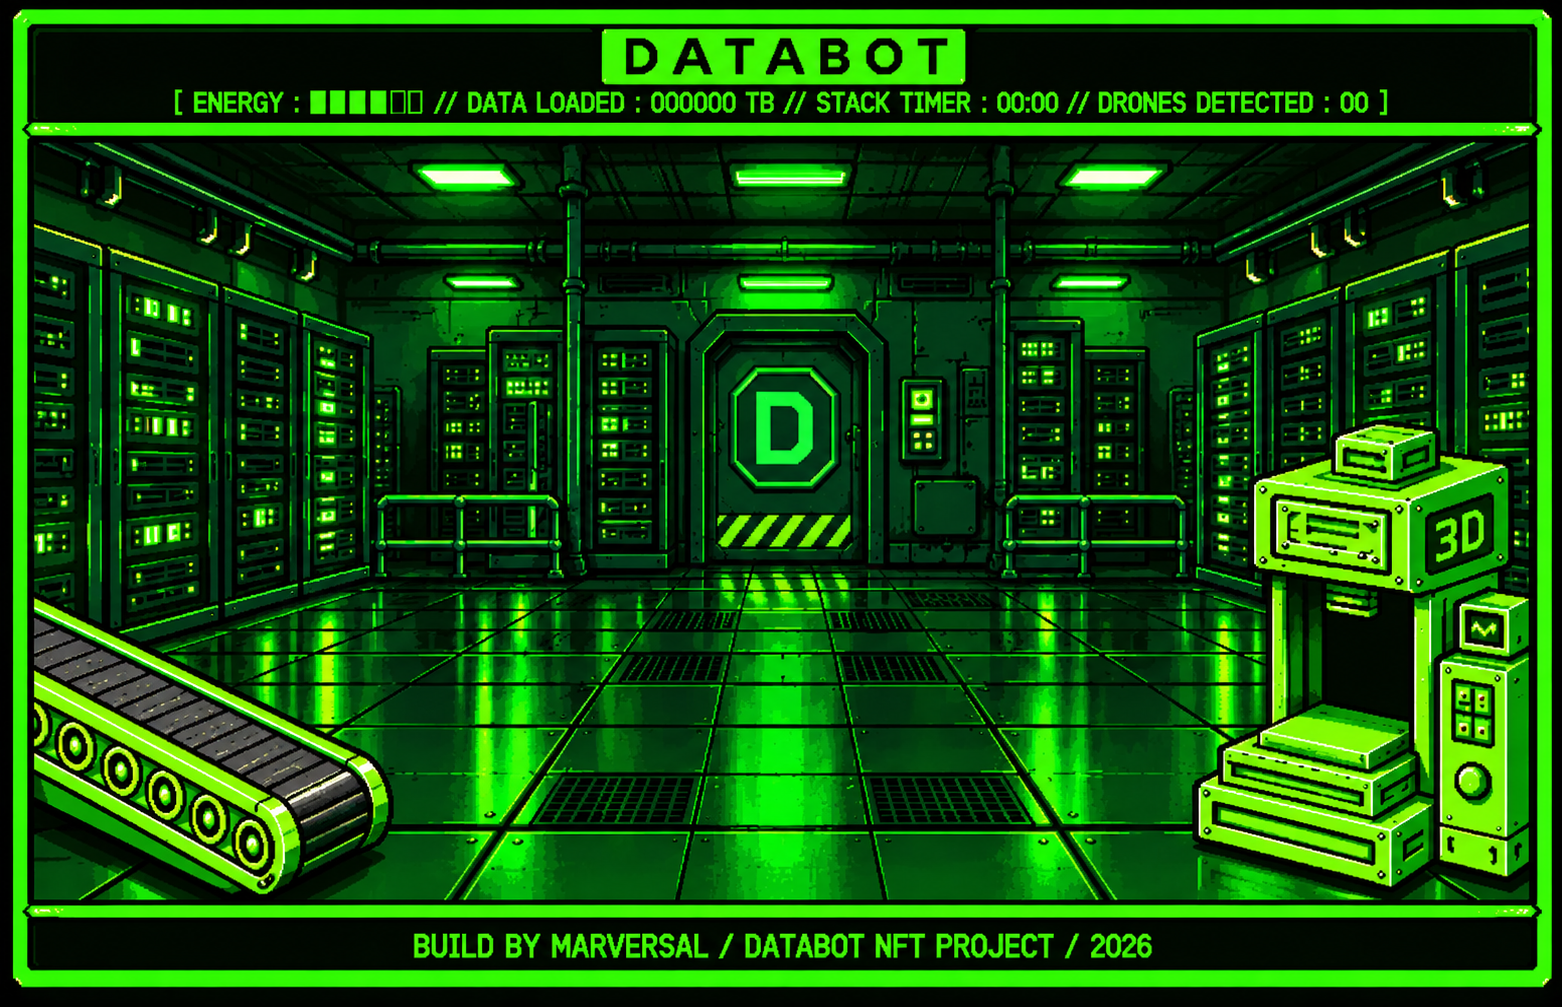
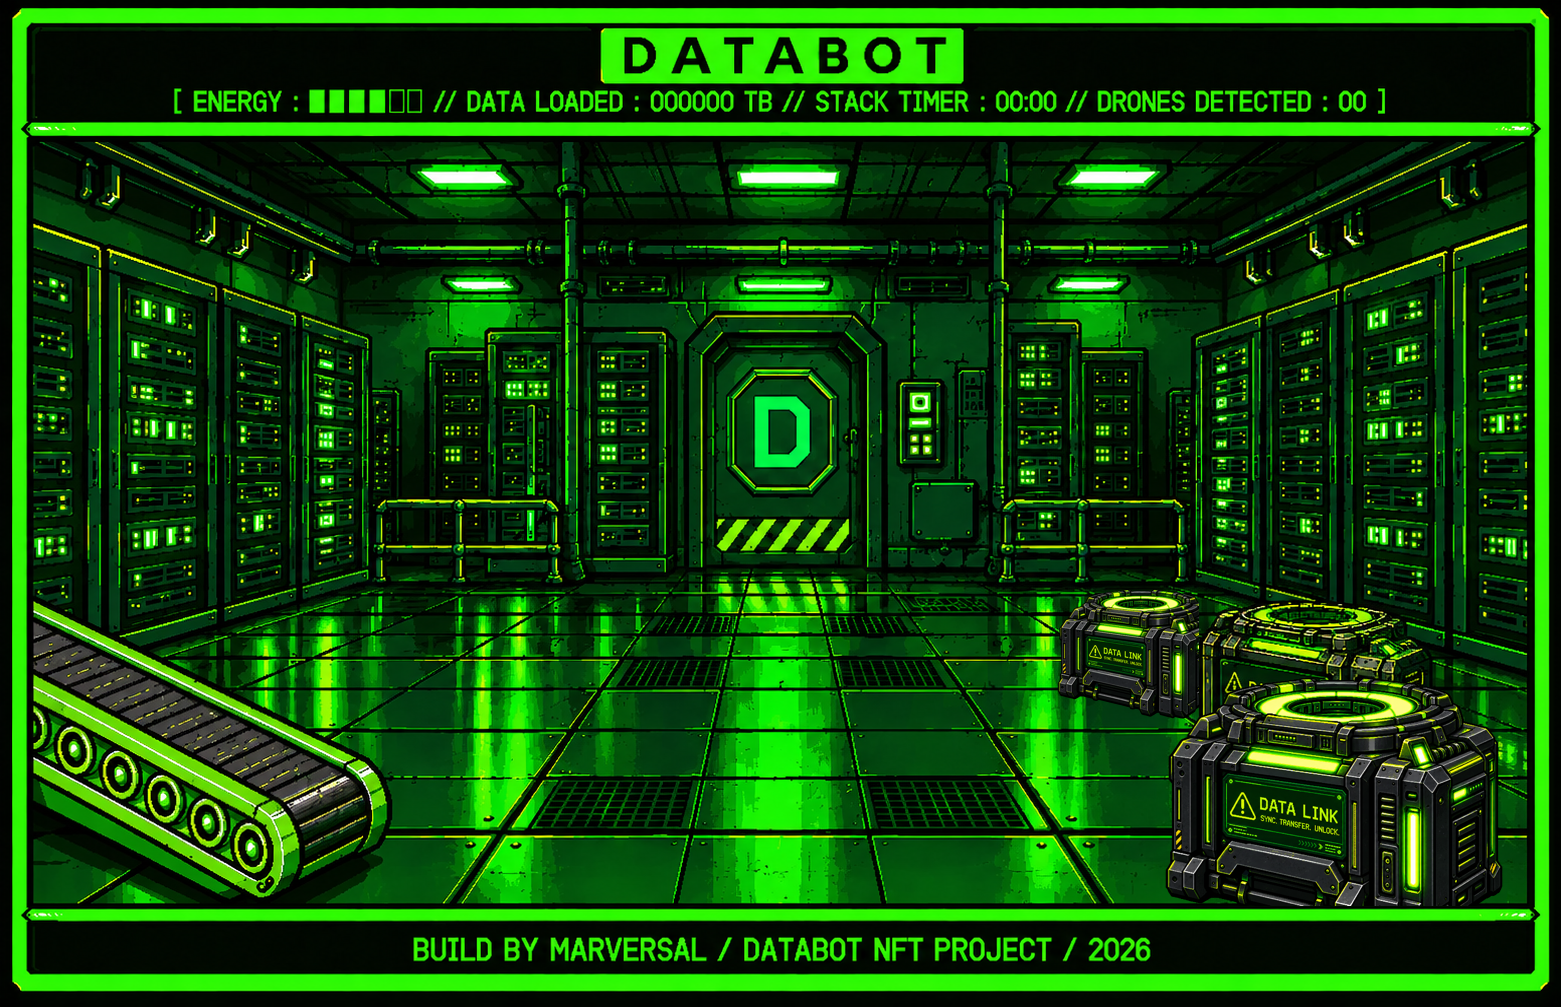
Add files via upload

diff --git a/src/render.js b/src/render.js
@@ -4,7 +4,8 @@ import { D } from './drone.js';
 import { drawText, textWidth, loadFont } from './font.js';
 import { COL, drawHeader, drawPrompt } from './hud.js';
 
-const NAMES = ['databot_run_L', 'databot_run_R', 'databot_carry_L', 'databot_carry_R', 'databot_jump_L', 'databot_jump_R',
+const POSES = ['launch', 'air', 'reach', 'lift'];
+const NAMES = ['databot_run_L', 'databot_run_R', 'databot_carry_L', 'databot_carry_R', ...POSES.flatMap(p => ['databot_' + p + '_L', 'databot_' + p + '_R']),
   'dog_run1', 'dog_run2', 'dog_run3', 'dog_run4', 'drone_fly1', 'drone_fly2', 'drone_shoot', 'drone_tilt', 'cube'];
 export const img = {}; const bgs = {};
 export function loadAssets() {
@@ -12,7 +13,9 @@ export function loadAssets() {
   return Promise.all([loadFont(), ...NAMES.map(n => load('assets/sprites/' + n + '.png').then(i => { img[n] = i; })),
     load('assets/bg/layout.png').then(i => { bgs.layout = i; }), load('assets/bg/splash.png').then(i => { bgs.splash = i; })]);
 }
-export const SIZE = { databotH: 190, dogH: 76, droneW: 150, cubeBelt: 46 };
+export const SIZE = { databotK: 0.378, poseK: 0.33, dogH: 76, droneW: 150, cubeBelt: 46 };
+const databotH = (name) => img[name].height * (/_(launch|air|reach|lift)_/.test(name) ? SIZE.poseK : SIZE.databotK);
+const PLAYER_H = 190;
 
 const tintCv = document.createElement('canvas'), tintCtx = tintCv.getContext('2d');
 // Draws a sprite scaled to a target height (or width), anchored bottom-centre (default) or centre.
@@ -93,7 +96,7 @@ function drawSheet(ctx) {
   const tw = textWidth('DATABOT SPRITE SHEET', 4) + 28; ctx.fillStyle = COL.g; ctx.fillRect(512 - tw / 2, 100, tw, 36);
   drawText(ctx, 'DATABOT SPRITE SHEET', 512, 108, 4, '#000', { align: 'center' });
   const rows = [
-    [['databot_run_L', 'RUN LEFT'], ['databot_carry_L', 'CARRY LEFT'], ['databot_jump_L', 'JUMP LEFT'], ['databot_run_R', 'RUN RIGHT'], ['databot_carry_R', 'CARRY RIGHT'], ['databot_jump_R', 'JUMP RIGHT']],
+    [['databot_run_L', 'RUN'], ['databot_carry_L', 'CARRY'], ['databot_launch_L', 'JUMP LAUNCH'], ['databot_air_R', 'AIRBORNE'], ['databot_reach_L', 'GRAB REACH'], ['databot_lift_L', 'GRAB LIFT']],
     [['drone_fly1', 'DRONE FLY'], ['drone_shoot', 'LASER SHOOT'], ['drone_tilt', 'LASER TILT'], ['dog_run1', 'K9 RUN 1'], ['dog_run3', 'K9 RUN 3'], ['cube', 'DATA CUBE']]];
   rows.forEach((row, r) => row.forEach(([n, label], i) => {
     const cx = 100 + i * 165, top = 148 + r * 215;
@@ -122,15 +125,17 @@ export function draw(ctx, w, t) {
   if (w.terminal.glow > 0) { const k = w.terminal.glow / 0.6; glow(ctx, cx, cy, 80, `rgba(200,255,0,${0.55 * k})`); spr(ctx, 'cube', cx, cy, { w: T.cubeWidth, anchor: 'center', alpha: Math.min(1, k * 1.6) }); }
   w.terminal.flying.forEach(f => { const q = w.terminal.flyPos(f); spr(ctx, 'cube', q.x, q.y, { w: T.cubeWidth * (0.6 + 0.4 * f.t), anchor: 'center' }); });
   if (w.state.playing && w.inTerminalZone() && Math.floor(t * 3) % 2) {
-    ctx.fillStyle = COL.hi; ctx.beginPath(); ctx.moveTo(cx - 12, 395); ctx.lineTo(cx + 12, 395); ctx.lineTo(cx, 413); ctx.fill();
+    ctx.fillStyle = COL.hi; ctx.beginPath(); ctx.moveTo(cx - 12, 366); ctx.lineTo(cx + 12, 366); ctx.lineTo(cx, 384); ctx.fill();
   }
   w.dogs.forEach(d => { shadow(ctx, d.x, 90); spr(ctx, d.sprite(), d.x, d.y, { h: SIZE.dogH, flip: d.dir > 0 }); });
   shadow(ctx, p.x, 80 - Math.min(30, (CFG.FLOOR - p.y) / 5));
   const blink = p.invT > 0 && !p.stunned && Math.floor(t * 14) % 2;
   if (!blink) {
     const tint = p.hitFlash > 0 ? '#ffffff' : (p.stunned && Math.floor(t * 10) % 2 ? 'rgba(255,42,74,0.45)' : null);
-    spr(ctx, p.sprite(), p.x + (p.stunned ? Math.sin(t * 70) * 3 : 0), p.y - p.bob(), { h: SIZE.databotH, tint, rot: p.onGround && Math.abs(p.vx) > 30 ? Math.sin(p.anim * 11) * 0.03 : 0 });
+    const sn = p.sprite();
+    spr(ctx, sn, p.x + (p.stunned ? Math.sin(t * 70) * 3 : 0), p.y - p.bob(), { h: databotH(sn), tint, rot: p.onGround && Math.abs(p.vx) > 30 ? Math.sin(p.anim * 11) * 0.03 : 0 });
   }
+  if (p.lifting && !blink) spr(ctx, 'cube', p.x + p.facing * 62, p.y - 150 - Math.sin(Math.min(1, (p.act.t - 0.16) / 0.26) * Math.PI) * 6, { w: 40, anchor: 'center' });
   w.drones.forEach(d => {
     drawLaser(ctx, d, t); shadow(ctx, d.x, 50);
     spr(ctx, droneSprite(d, t), d.x, d.y, { w: SIZE.droneW, flip: d.facing > 0, anchor: 'center', rot: d.state === D.TARGET || d.state === D.CHARGE ? 0.04 * d.facing : 0 });
@@ -138,9 +143,9 @@ export function draw(ctx, w, t) {
   });
   w.fx.parts.forEach(q => { ctx.globalAlpha = Math.max(0, q.life / q.max); ctx.fillStyle = q.color; ctx.fillRect(q.x - 2, q.y - 2, 4, 4); }); ctx.globalAlpha = 1;
   if (w.state.playing) {
-    if (p.stunned) drawText(ctx, 'STUNNED', p.x, p.y - SIZE.databotH - 26, 3, COL.red, { align: 'center', shadow: '#000' });
-    else if (w.inTerminalZone()) drawPrompt(ctx, '[E] LOAD BELT', p.x, p.y - SIZE.databotH - 14, t);
-    else if (grab) drawPrompt(ctx, '[E] GRAB CUBE', p.x, p.y - SIZE.databotH - 14, t);
+    if (p.stunned) drawText(ctx, 'STUNNED', p.x, p.y - PLAYER_H - 26, 3, COL.red, { align: 'center', shadow: '#000' });
+    else if (w.inTerminalZone()) drawPrompt(ctx, '[E] LOAD BELT', p.x, p.y - PLAYER_H - 14, t);
+    else if (grab) drawPrompt(ctx, '[E] GRAB CUBE', p.x, p.y - PLAYER_H - 14, t);
   }
   w.fx.pops.forEach(q => drawText(ctx, q.text, q.x, q.y, 2, q.color, { align: 'center', shadow: '#000' }));
   drawHeader(ctx, w, t);

diff --git a/src/game.js b/src/game.js
@@ -12,7 +12,7 @@ import { FX } from './fx.js';
 export class World {
   constructor() {
     this.state = new StateManager(); this.player = new Player(); this.conveyor = new Conveyor(); this.terminal = new Terminal();
-    this.fx = new FX(); this.drones = []; this.dogs = []; this.notice = null; this.gameOverReason = ''; this.clock = 0; this.inP2 = false;
+    this.fx = new FX(); this.drones = []; this.dogs = []; this.notice = null; this.gameOverReason = ''; this.clock = 0; this.inP2 = false; this.idleT = 0;
     this.stats = { data: 0, cubes: 0 }; this.loadLeft = CFG.loadTime; this.surviveLeft = CFG.surviveTime;
     this.state.on((next, prev) => this.onState(next, prev));
   }
@@ -51,20 +51,26 @@ export class World {
   interact() {
     const p = this.player;
     if (this.inTerminalZone()) {
-      p.carrying--; this.terminal.deliver(p.x + p.facing * 20, p.y - 70); this.sfx('deliver');
+      p.carrying--; p.startAction('load'); this.terminal.deliver(p.x + p.facing * 20, p.y - 70); this.sfx('deliver');
       this.fx.burst(p.x, p.y - 70, '#c8ff00', 6, 100); return;
     }
     const c = this.nearGrab();
-    if (c && this.conveyor.take(c)) { p.carrying++; this.sfx('pickup'); const q = this.conveyor.pos(c.t); this.fx.burst(q.x, q.y - 20, '#39ff14', 8, 120); }
+    if (c && this.conveyor.take(c)) { p.carrying++; p.startAction('pickup'); this.sfx('pickup'); const q = this.conveyor.pos(c.t); this.fx.burst(q.x, q.y - 20, '#39ff14', 8, 120); }
+  }
+  returnToStart() {
+    this.resetSession(); Input.clear(); this.sheet = false;
+    this.state.go(S.START); this.idleT = 0;
   }
   update(dt) {
-    this.clock += dt; this.state.tick(dt); this.fx.update(dt);
+    this.clock += dt;
+    if (Input.activity() || Input.anyHeld()) this.idleT = 0; else this.idleT += dt;
+    if (this.idleT >= CFG.idleTimeout && !this.state.is(S.START, S.INITIALIZING)) { this.returnToStart(); return; } this.state.tick(dt); this.fx.update(dt);
     if (this.notice && (this.notice.life -= dt) <= 0) this.notice = null;
     if (Input.hit('mute')) Audio8.toggleMute();
     if (Input.hit('volup')) Audio8.setVolume(Audio8.volume + 0.1);
     if (Input.hit('voldown')) Audio8.setVolume(Audio8.volume - 0.1);
     const st = this.state;
-    if (st.is(S.START)) { if (Input.hit('confirm') || Input.hit('jump')) this.begin(); return; }
+    if (st.is(S.START)) { if (Input.activity()) this.begin(); return; }
     if (st.is(S.GAMEOVER)) { if (Input.hit('confirm')) this.begin(); this.player.update(dt, this); return; }
     if (st.is(S.TRANSITION)) {
       this.player.update(dt, this); this.terminal.update(dt, this);

diff --git a/src/player.js b/src/player.js
@@ -4,7 +4,7 @@ export class Player {
   constructor() { this.reset(); }
   reset() {
     Object.assign(this, { x: 560, y: CFG.FLOOR, vx: 0, vy: 0, facing: 1, onGround: true, carrying: 0, energy: CFG.energy,
-      stunT: 0, invT: 0, landT: 0, anim: 0, jumpBuf: 0, stepT: 0, hitFlash: 0 });
+      stunT: 0, invT: 0, landT: 0, airT: 0, act: null, anim: 0, jumpBuf: 0, stepT: 0, hitFlash: 0 });
   }
   get stunned() { return this.stunT > 0; }
   update(dt, w) {
@@ -27,6 +27,7 @@ export class Player {
     }
     this.x = Math.max(P.minX, Math.min(P.maxX, this.x + this.vx * dt));
     if (this.onGround && Math.abs(this.vx) > 120) { this.stepT -= dt; if (this.stepT <= 0) { this.stepT = 0.26; w.sfx('step'); } }
+    this.airT = this.onGround ? 0 : this.airT + dt; if (this.act && (this.act.t += dt) > this.act.dur) this.act = null;
     this.landT = Math.max(0, this.landT - dt); this.stunT = Math.max(0, this.stunT - dt);
     this.invT = Math.max(0, this.invT - dt); this.hitFlash = Math.max(0, this.hitFlash - dt);
     this.anim += dt * (Math.abs(this.vx) > P.maxSpeed * P.runThreshold ? 1.6 : 1);
@@ -41,9 +42,16 @@ export class Player {
     if (this.energy <= 0) w.gameOver('SYSTEM FAILURE - ENERGY DEPLETED');
     return true;
   }
+  startAction(type) { this.act = { type, t: 0, dur: type === 'pickup' ? 0.42 : 0.32 }; }
+  get lifting() { return this.act && this.act.type === 'pickup' && this.act.t >= 0.16; }
   sprite() {
     const side = this.facing < 0 ? 'L' : 'R';
-    if (this.stunned || !this.onGround) return (this.carrying > 0 && !this.stunned ? 'databot_carry_' : 'databot_jump_') + side;
+    if (this.stunned) return 'databot_air_' + side;
+    if (this.act && this.onGround) {
+      if (this.act.type === 'pickup') return 'databot_' + (this.act.t < 0.16 ? 'reach_' : 'lift_') + side;
+      return 'databot_reach_' + side;
+    }
+    if (!this.onGround) return this.carrying > 0 ? 'databot_carry_' + side : 'databot_' + (this.airT < 0.14 && this.vy < 0 ? 'launch_' : 'air_') + side;
     return (this.carrying > 0 ? 'databot_carry_' : 'databot_run_') + side;
   }
   bob() { return this.onGround && Math.abs(this.vx) > 30 ? Math.abs(Math.sin(this.anim * 11)) * 6 : 0; }

diff --git a/src/debug.js b/src/debug.js
@@ -16,6 +16,9 @@ export function installDebug(world, ctl) {
       if (name === 'start') { if (!w.state.is(S.START)) { w.gameOver('x'); w.state.go(S.START); } return; }
       if (name === 'load') { w.stats = { data: 256, cubes: 4 }; w.loadLeft = 42; w.player.x = 330; w.player.carrying = 0; w.conveyor.cubes = [0.99, 0.82, 0.55, 0.3, 0.08].map((t, i) => ({ id: 90 + i, t, state: 'belt' })); w.notice = null; }
       if (name === 'carry') { w.stats = { data: 256, cubes: 4 }; w.loadLeft = 38; w.player.x = 770; w.player.carrying = 1; w.player.facing = 1; w.conveyor.cubes = [0.7, 0.4, 0.15].map((t, i) => ({ id: 80 + i, t, state: 'belt' })); w.notice = null; }
+      if (name === 'grab') { w.stats = { data: 192, cubes: 3 }; w.loadLeft = 45; w.player.x = 300; w.player.facing = 1; w.player.carrying = 1; w.player.startAction('pickup'); w.player.act.t = 0.3; w.conveyor.cubes = [0.9, 0.6, 0.3].map((t, i) => ({ id: 50 + i, t, state: 'belt' })); w.notice = null; }
+      if (name === 'reach') { w.stats = { data: 192, cubes: 3 }; w.loadLeft = 45; w.player.x = 300; w.player.facing = 1; w.player.carrying = 0; w.player.startAction('pickup'); w.player.act.t = 0.05; w.conveyor.cubes = [0.99, 0.7, 0.4].map((t, i) => ({ id: 40 + i, t, state: 'belt' })); w.notice = null; }
+      if (name === 'jump') { w.stats = { data: 192, cubes: 3 }; w.loadLeft = 44; w.player.x = 520; w.player.facing = 1; w.player.carrying = 0; w.player.onGround = false; w.player.y = CFG.FLOOR - 70; w.player.vy = -200; w.player.airT = 0.4; w.conveyor.cubes = [0.8, 0.5, 0.2].map((t, i) => ({ id: 30 + i, t, state: 'belt' })); w.notice = null; }
       if (name === 'deliver') { w.stats = { data: 320, cubes: 5 }; w.loadLeft = 35; w.player.x = 800; w.player.carrying = 0; w.terminal.glow = 0.5; w.terminal.processT = 0.5; w.conveyor.cubes = [0.6, 0.3].map((t, i) => ({ id: 70 + i, t, state: 'belt' })); }
       if (name === 'detect' || name === 'laser' || name === 'stun' || name === 'over') {
         w.stats = { data: 576, cubes: 9 }; w.loadLeft = 0; goPhase(S.PHASE2); w.inP2 = true; w.surviveLeft = 44; w.player.energy = 4; w.conveyor.cubes = [0.5, 0.2].map((t, i) => ({ id: 60 + i, t, state: 'belt' }));

diff --git a/src/input.js b/src/input.js
@@ -1,18 +1,22 @@
-const down = new Set(), pressed = new Set();
+const down = new Set(), pressed = new Set(), anyDown = new Set(); let activity = false;
 const MAP = { arrowleft: 'left', a: 'left', arrowright: 'right', d: 'right', arrowup: 'jump', ' ': 'jump', w: 'jump', e: 'grab', enter: 'confirm', r: 'confirm', m: 'mute', '+': 'volup', '=': 'volup', '-': 'voldown', _: 'voldown' };
 let bound = false;
 const onDown = (ev) => {
+  activity = true; anyDown.add(ev.key);
   const a = MAP[ev.key.toLowerCase()]; if (!a) return;
   if (ev.key.startsWith('Arrow') || ev.key === ' ') ev.preventDefault();
   if (!down.has(a)) pressed.add(a);
   down.add(a);
 };
-const onUp = (ev) => { const a = MAP[ev.key.toLowerCase()]; if (a) down.delete(a); };
+const onUp = (ev) => { activity = true; anyDown.delete(ev.key); const a = MAP[ev.key.toLowerCase()]; if (a) down.delete(a); };
 export const Input = {
-  bind() { if (bound) return; bound = true; addEventListener('keydown', onDown); addEventListener('keyup', onUp); addEventListener('blur', () => down.clear()); },
+  bind() { if (bound) return; bound = true; addEventListener('pointerdown', () => { activity = true; }); addEventListener('touchstart', () => { activity = true; }, { passive: true }); addEventListener('keydown', onDown); addEventListener('keyup', onUp); addEventListener('blur', () => { down.clear(); anyDown.clear(); }); },
   held: (a) => down.has(a),
+  anyHeld: () => anyDown.size > 0,
+  touch() { activity = true; },
+  activity() { return activity; },
   hit(a) { return pressed.has(a); },
-  endFrame() { pressed.clear(); },
-  clear() { down.clear(); pressed.clear(); },
+  endFrame() { pressed.clear(); activity = false; },
+  clear() { down.clear(); pressed.clear(); anyDown.clear(); },
   inject(a, isDown) { if (isDown) { if (!down.has(a)) pressed.add(a); down.add(a); } else down.delete(a); },
 };

diff --git a/src/config.js b/src/config.js
@@ -5,8 +5,9 @@ export const CFG = {
   stunTime: 1.3, invulnTime: 2.4,
   player: { accel: 2800, decel: 3400, maxSpeed: 330, runThreshold: 0.8, jumpV: 830, gravity: 2600, fallMul: 1.35, minX: 70, maxX: 960 },
   cube: { spawnInterval: 3, value: 64, beltTime: 7, cap: 5, gap: 0.17, reach: 105 },
-  belt: { start: [52, 428], end: [214, 511] },
-  terminal: { chamber: [884, 468], cubeWidth: 60, zone: [640, 930] },
+  belt: { start: [52, 436], end: [216, 518] },
+  terminal: { chamber: [876, 432], cubeWidth: 52, zone: [680, 960] },
+  idleTimeout: 120,
   drone: { count: 1, y: 200, patrolSpeed: 130, trackSpeed: 260, detectRange: 560, detectTime: 0.7,
     trackTime: 1.1, targetTime: 0.9, chargeTime: 0.65, fireTime: 0.22, cooldown: 1.6, repositionTime: 1.1, hitRadius: 50 },
   k9: { count: 1, speed: 120, minX: 380, maxX: 760, hitRadius: 34 },

diff --git a/src/state.js b/src/state.js
@@ -3,8 +3,8 @@ export const S = Object.freeze({
   PHASE2: 'PHASE 2: DRONE THREAT', GAMEOVER: 'GAME OVER',
 });
 const ALLOWED = {
-  [S.INITIALIZING]: [S.START], [S.START]: [S.PHASE1], [S.PHASE1]: [S.TRANSITION, S.GAMEOVER],
-  [S.TRANSITION]: [S.PHASE2, S.GAMEOVER], [S.PHASE2]: [S.GAMEOVER], [S.GAMEOVER]: [S.PHASE1, S.START],
+  [S.INITIALIZING]: [S.START], [S.START]: [S.PHASE1], [S.PHASE1]: [S.TRANSITION, S.GAMEOVER, S.START],
+  [S.TRANSITION]: [S.PHASE2, S.GAMEOVER, S.START], [S.PHASE2]: [S.GAMEOVER, S.START], [S.GAMEOVER]: [S.PHASE1, S.START],
 };
 export class StateManager {
   constructor() { this.current = S.INITIALIZING; this.time = 0; this.listeners = []; }

diff --git a/tools/slice_art.py b/tools/slice_art.py
@@ -41,17 +41,33 @@ def unify(frames):
 
 def save(im, name): im.save(OUT + name + '.png', optimize=True); print(name, im.size)
 
-poses = clean(SRC + 'databot_poses_sheet.png'); b = parts(poses); assert len(b) == 6, b
-row1 = sorted([x for x in b if (x[1] + x[3]) / 2 < poses.height / 2], key=lambda x: x[0]); row2 = sorted([x for x in b if x not in row1], key=lambda x: x[0])
-names = ['run', 'carry', 'jump']
-frames = unify([crop_tight(poses, bx) for bx in row1 + row2])
-for i, f in enumerate(frames): save(f, 'databot_%s_%s' % (names[i % 3], 'L' if i < 3 else 'R'))
+import os
+def section_run():
+    poses = clean(SRC + 'databot_poses_sheet.png'); b = parts(poses); assert len(b) == 6, b
+    row1 = sorted([x for x in b if (x[1] + x[3]) / 2 < poses.height / 2], key=lambda x: x[0]); row2 = sorted([x for x in b if x not in row1], key=lambda x: x[0])
+    names = ['run', 'carry', 'jump']
+    for i, f in enumerate(unify([crop_tight(poses, bx) for bx in row1 + row2])): save(f, 'databot_%s_%s' % (names[i % 3], 'L' if i < 3 else 'R'))
 
-dog = clean(SRC + 'dog_run_sheet.png'); b = sorted(parts(dog), key=lambda x: x[0]); assert len(b) == 4, b
-for i, f in enumerate(unify([crop_tight(dog, bx) for bx in b])): save(f, 'dog_run%d' % (i + 1))
+def section_dog():
+    dog = clean(SRC + 'dog_run_sheet.png'); b = sorted(parts(dog), key=lambda x: x[0]); assert len(b) == 4, b
+    for i, f in enumerate(unify([crop_tight(dog, bx) for bx in b])): save(f, 'dog_run%d' % (i + 1))
 
-dr = clean(SRC + 'drone_sheet.png'); b = parts(dr); assert len(b) == 4, b
-top = sorted([x for x in b if (x[1] + x[3]) / 2 < dr.height / 2], key=lambda x: x[0]); bot = sorted([x for x in b if x not in top], key=lambda x: x[0])
-for n, f in zip(['fly1', 'fly2', 'shoot', 'tilt'], unify([crop_tight(dr, bx) for bx in top + bot])): save(f, 'drone_' + n)
+def section_drone():
+    dr = clean(SRC + 'drone_sheet.png'); b = parts(dr); assert len(b) == 4, b
+    top = sorted([x for x in b if (x[1] + x[3]) / 2 < dr.height / 2], key=lambda x: x[0]); bot = sorted([x for x in b if x not in top], key=lambda x: x[0])
+    for n, f in zip(['fly1', 'fly2', 'shoot', 'tilt'], unify([crop_tight(dr, bx) for bx in top + bot])): save(f, 'drone_' + n)
 
-cube = clean(SRC + 'cube.png'); save(crop_tight(cube, (0, 0, cube.width, cube.height)), 'cube')
+def section_cube():
+    cube = clean(SRC + 'cube.png'); save(crop_tight(cube, (0, 0, cube.width, cube.height)), 'cube')
+
+def section_poses_v2():
+    # TL jump launch (faces left), TR airborne (faces right), BL grab reach (left), BR grab lift (left); mirrored for the other facing.
+    im = clean(SRC + 'databot_poses_v2.png'); b = parts(im); assert len(b) == 4, b
+    top = sorted([x for x in b if (x[1] + x[3]) / 2 < im.height / 2], key=lambda x: x[0]); bot = sorted([x for x in b if x not in top], key=lambda x: x[0])
+    frames = unify([crop_tight(im, bx) for bx in top + bot])
+    for (name, native), f in zip([('launch', 'L'), ('air', 'R'), ('reach', 'L'), ('lift', 'L')], frames):
+        m = f.transpose(Image.FLIP_LEFT_RIGHT); other = 'R' if native == 'L' else 'L'
+        save(f, 'databot_%s_%s' % (name, native)); save(m, 'databot_%s_%s' % (name, other))
+
+for fname, fn in [('databot_poses_sheet.png', section_run), ('dog_run_sheet.png', section_dog), ('drone_sheet.png', section_drone), ('cube.png', section_cube), ('databot_poses_v2.png', section_poses_v2)]:
+    if os.path.exists(SRC + fname): fn()

diff --git a/README.md b/README.md
@@ -39,3 +39,8 @@ Import the repo in Vercel (framework "Other", no build command, output directory
 ## Notes
 - Data unit is `CFG.dataUnit` (`MB` per the spec; the supplied layout art shows `TB`).
 - Cube drop point on the printer comes from template-matching `CUBE_placement.png` against the layout (`CFG.terminal.chamber`).
+
+## Update: Data Center backdrop, grab/jump poses, idle return
+- Backdrop `assets/bg/layout.png`; cube lands on the top ring of the front DATA LINK console.
+- Poses: `databot_{launch,air,reach,lift}_{L,R}` (jump + pickup/load); run and carry sprites unchanged.
+- After `CFG.idleTimeout` (120 s) with no input the game resets and returns to the splash; any input restarts.
